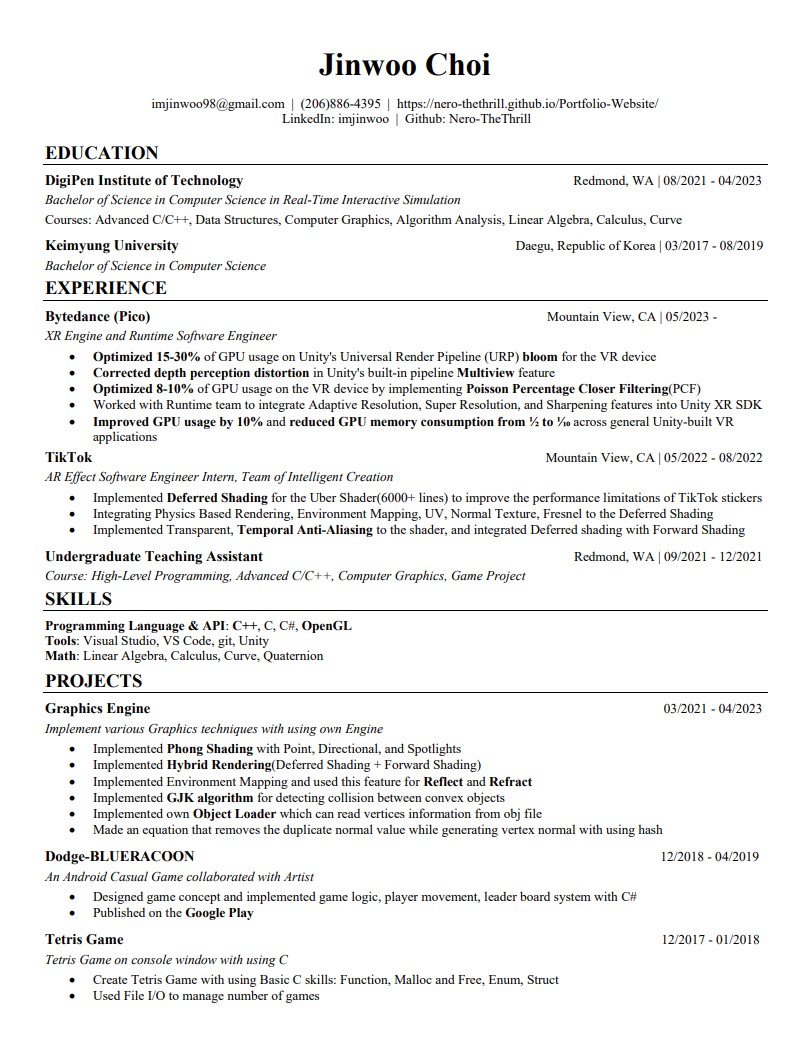
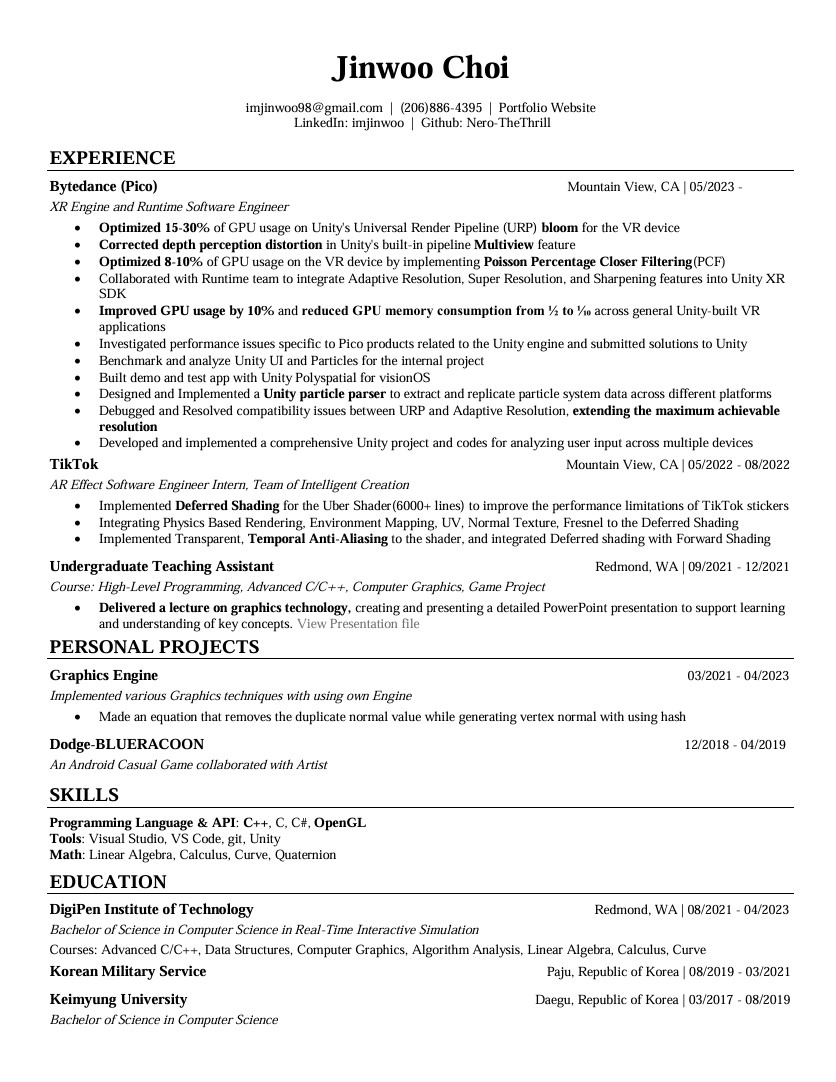
update resume pic

Changed region(s): [[0.0616, 0.0304, 0.9544, 0.9734], [0.8313, 0.6084, 0.9544, 0.6388], [0.7697, 0.7605, 0.8005, 0.7909]]

diff --git a/index.html b/index.html
@@ -44,7 +44,7 @@
                 <section id="Resume">
                     <div class="resumesection"></div>
                     <a target="_blank" href="jw_resume.pdf" >
-                        <img src="image/jw_resume.JPG" alt="Resume" class="resume">
+                        <img src="image/jw_resume.jpg" alt="Resume" class="resume">
                     </a>
                 </section>  
 
